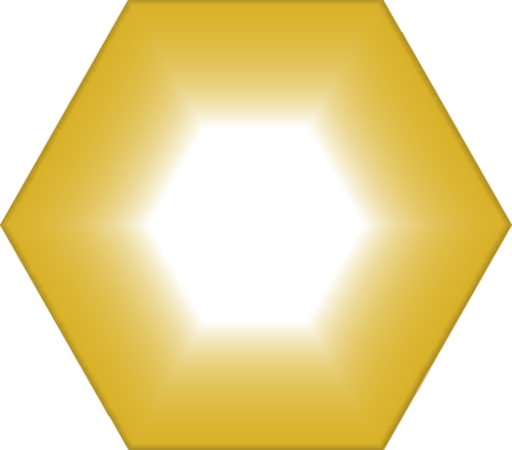
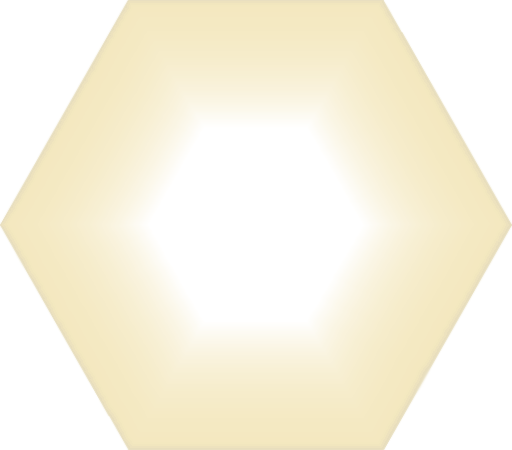
reduced opactiy of overlay part II

diff --git a/styles/main.css b/styles/main.css
@@ -305,7 +305,7 @@ overlay {
 
 overlay.moveTarget, overlay.ownerPlayer1, overlay.ownerPlayer2 {
 }
-
+/*
 .tile-move-target:after {
     content: " ";
     width: 100%;
@@ -313,7 +313,7 @@ overlay.moveTarget, overlay.ownerPlayer1, overlay.ownerPlayer2 {
     position: absolute;
     background-image: url(../assets/tile_base_yellow.png);
     opacity: .3;
-}
+}*/
 
 
 
